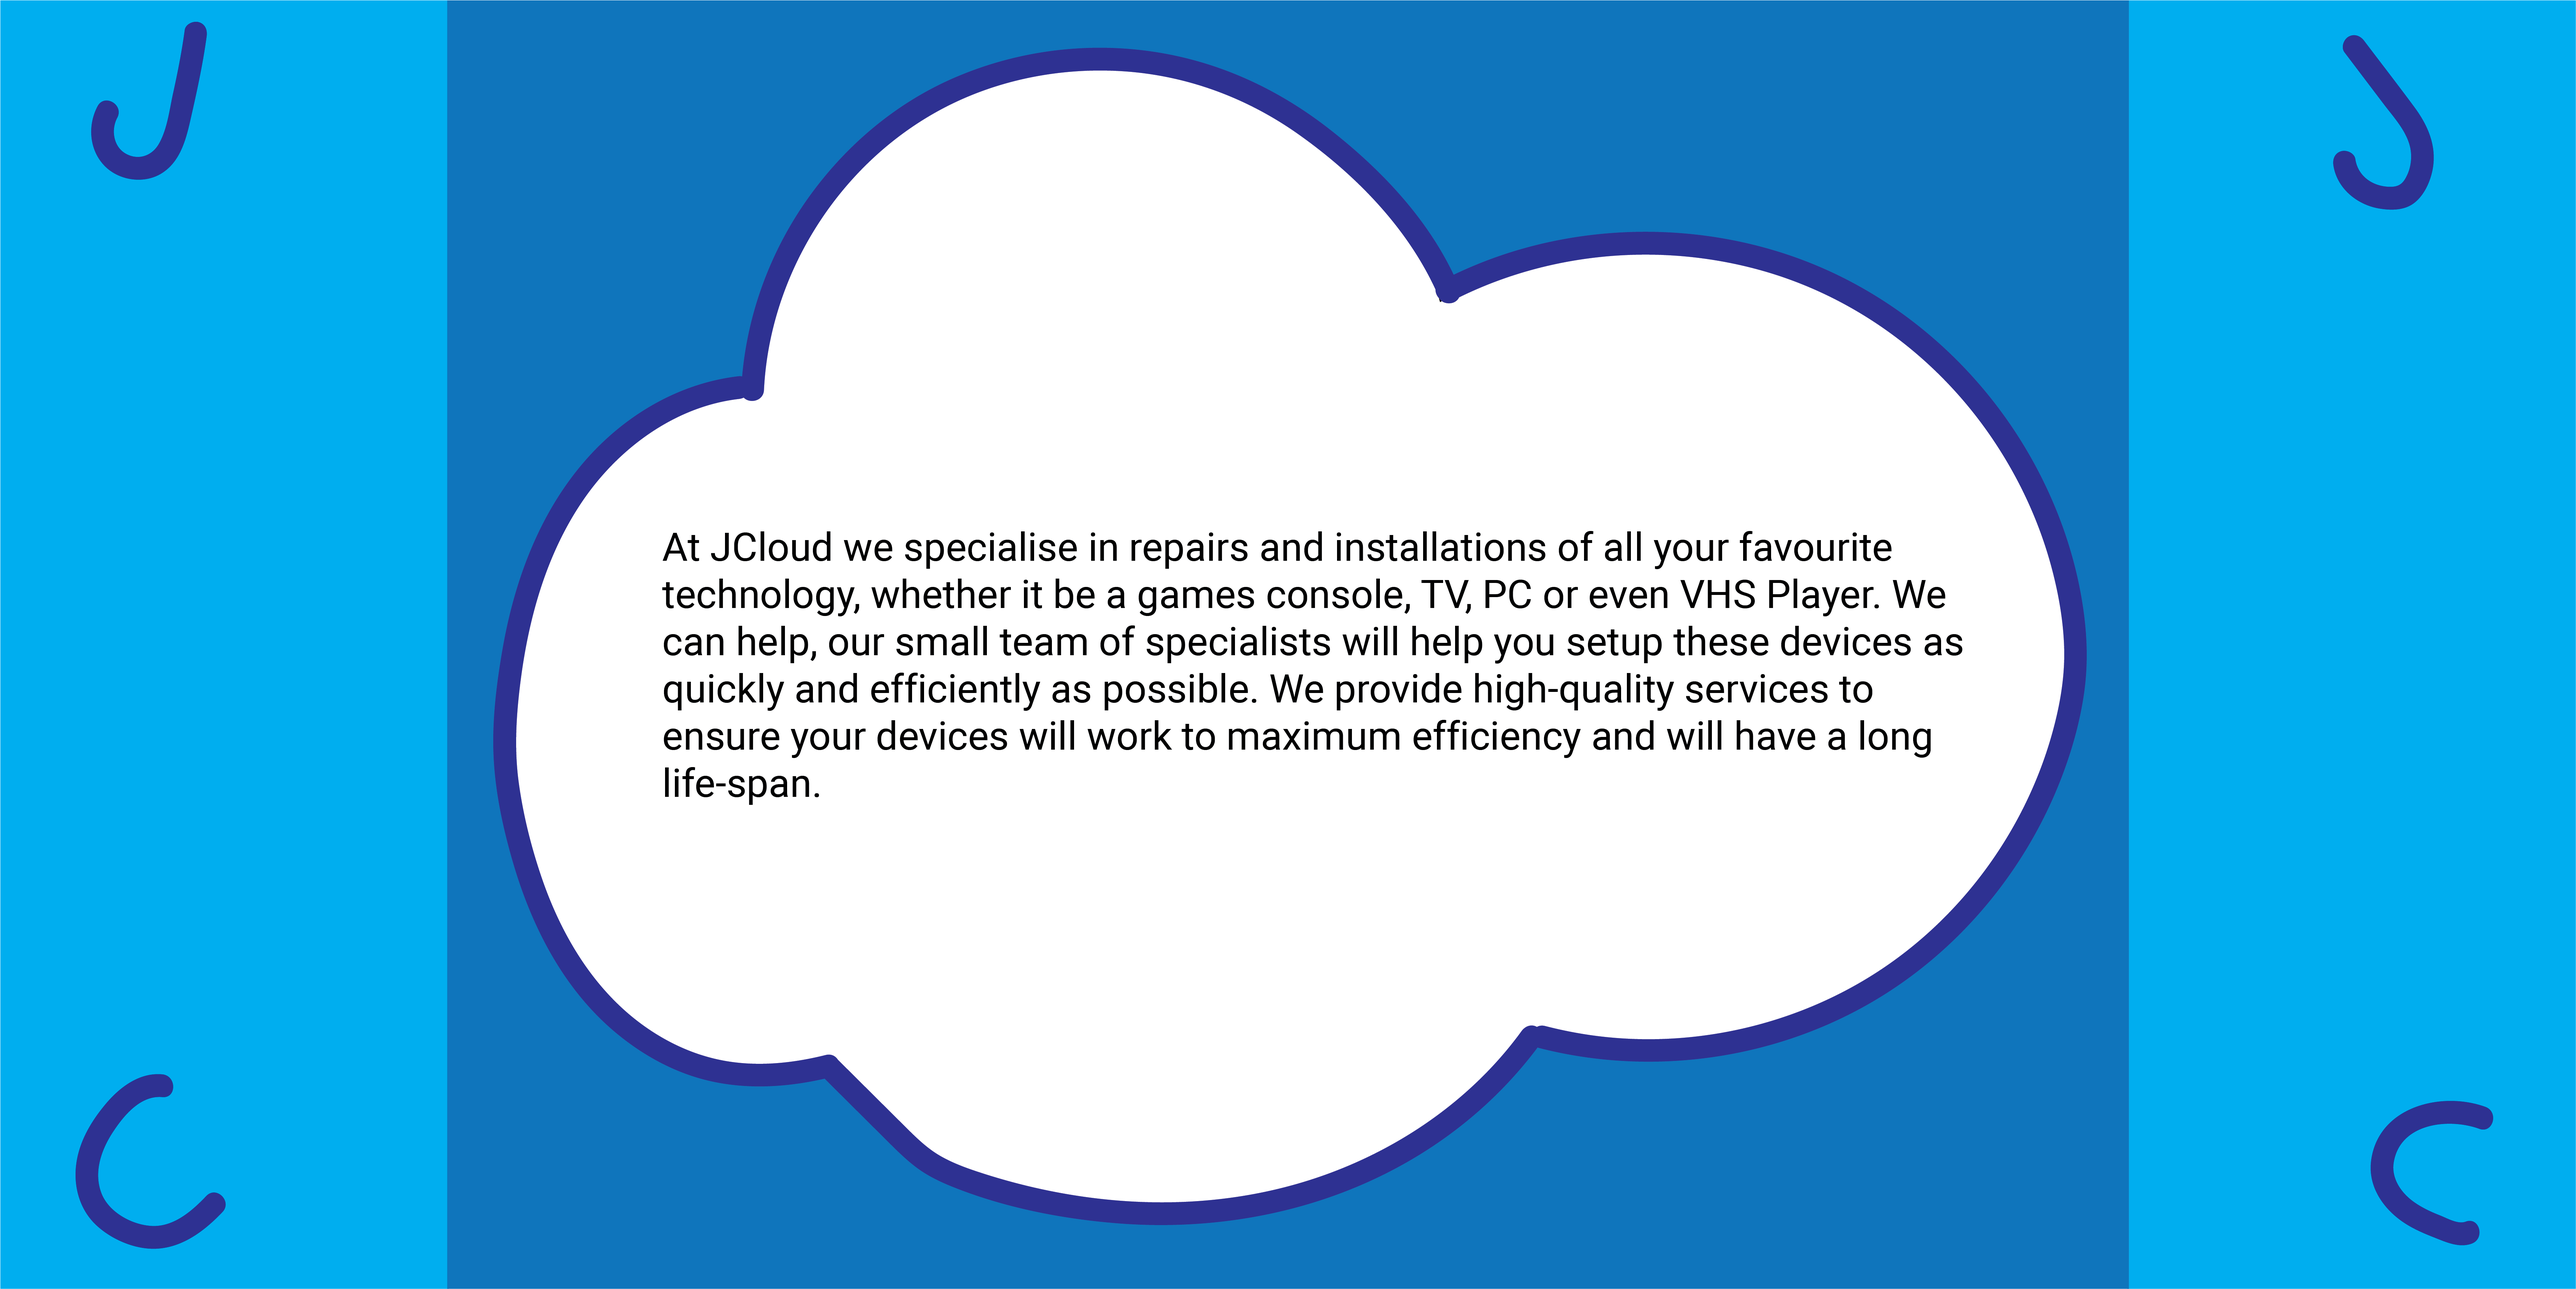
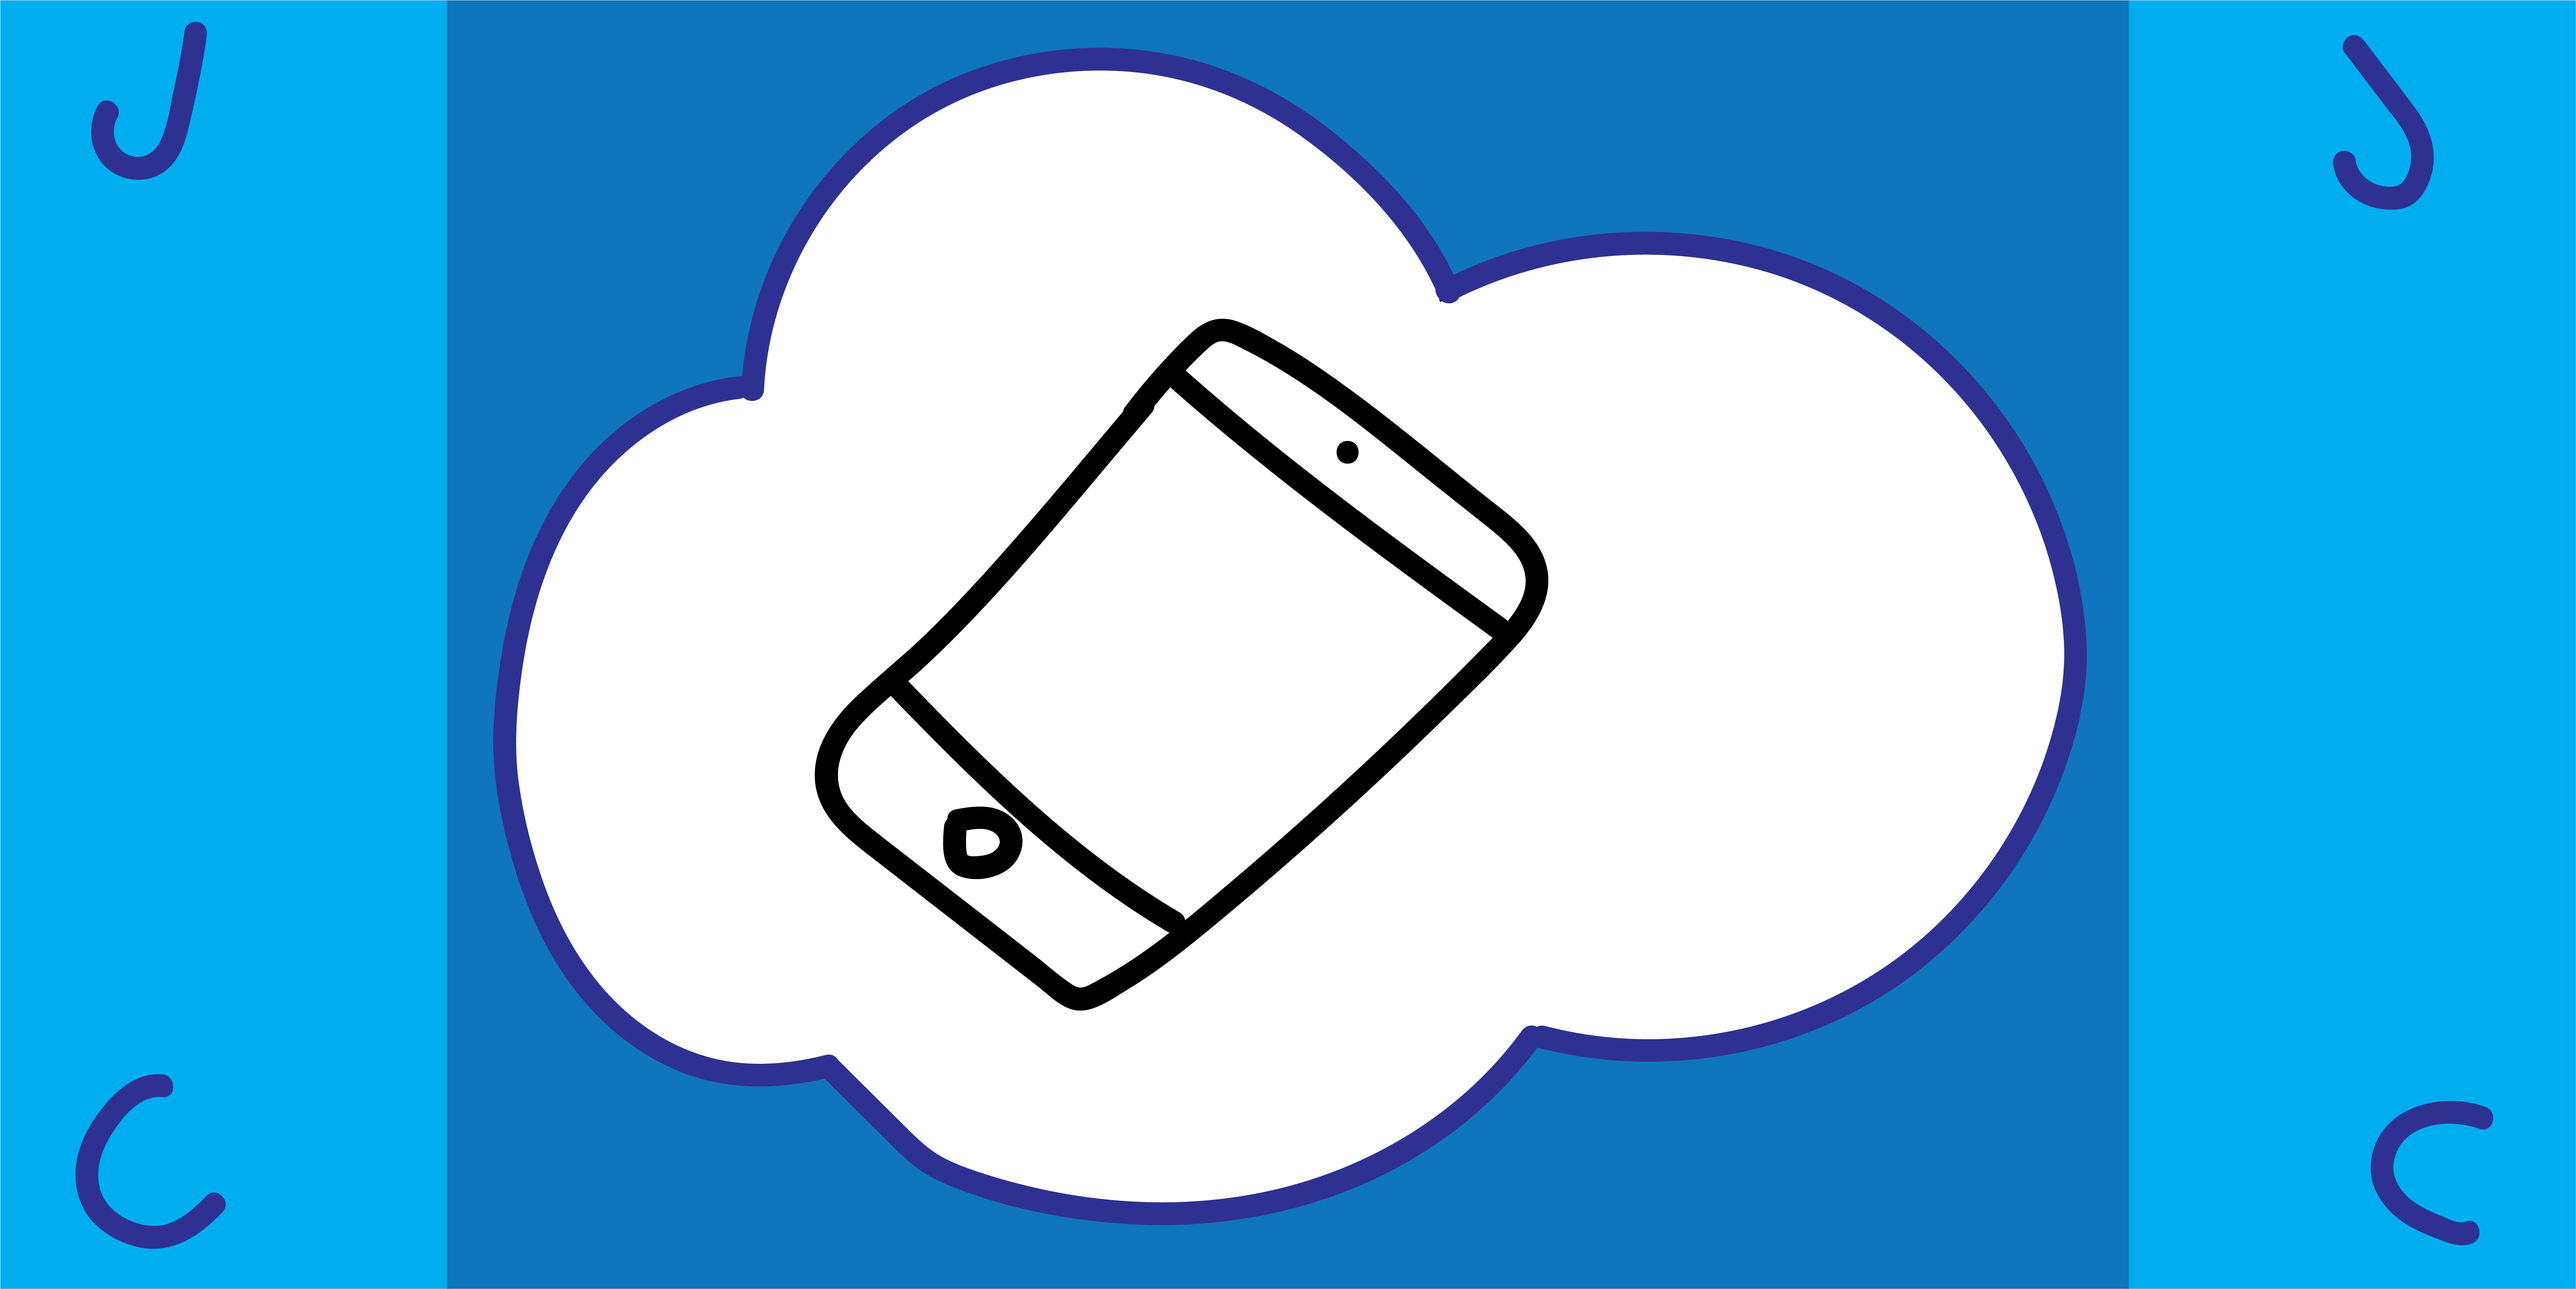
Image updates

Changed region(s): [[0.2493, 0.248, 0.7479, 0.8059]]

diff --git a/index.html b/index.html
@@ -68,7 +68,7 @@
                   <img src="images/jc.png" class="d-block w-100" alt="...">
                 </div>
                 <div class="carousel-item">
-                  <img src="https://placedog.net/600/300" class="d-block w-100" alt="...">
+                  <img src="images/jc2.png" class="d-block w-100" alt="...">
                 </div>
                 <div class="carousel-item">
                   <img src="https://placebear.com/600/300" class="d-block w-100" alt="...">
